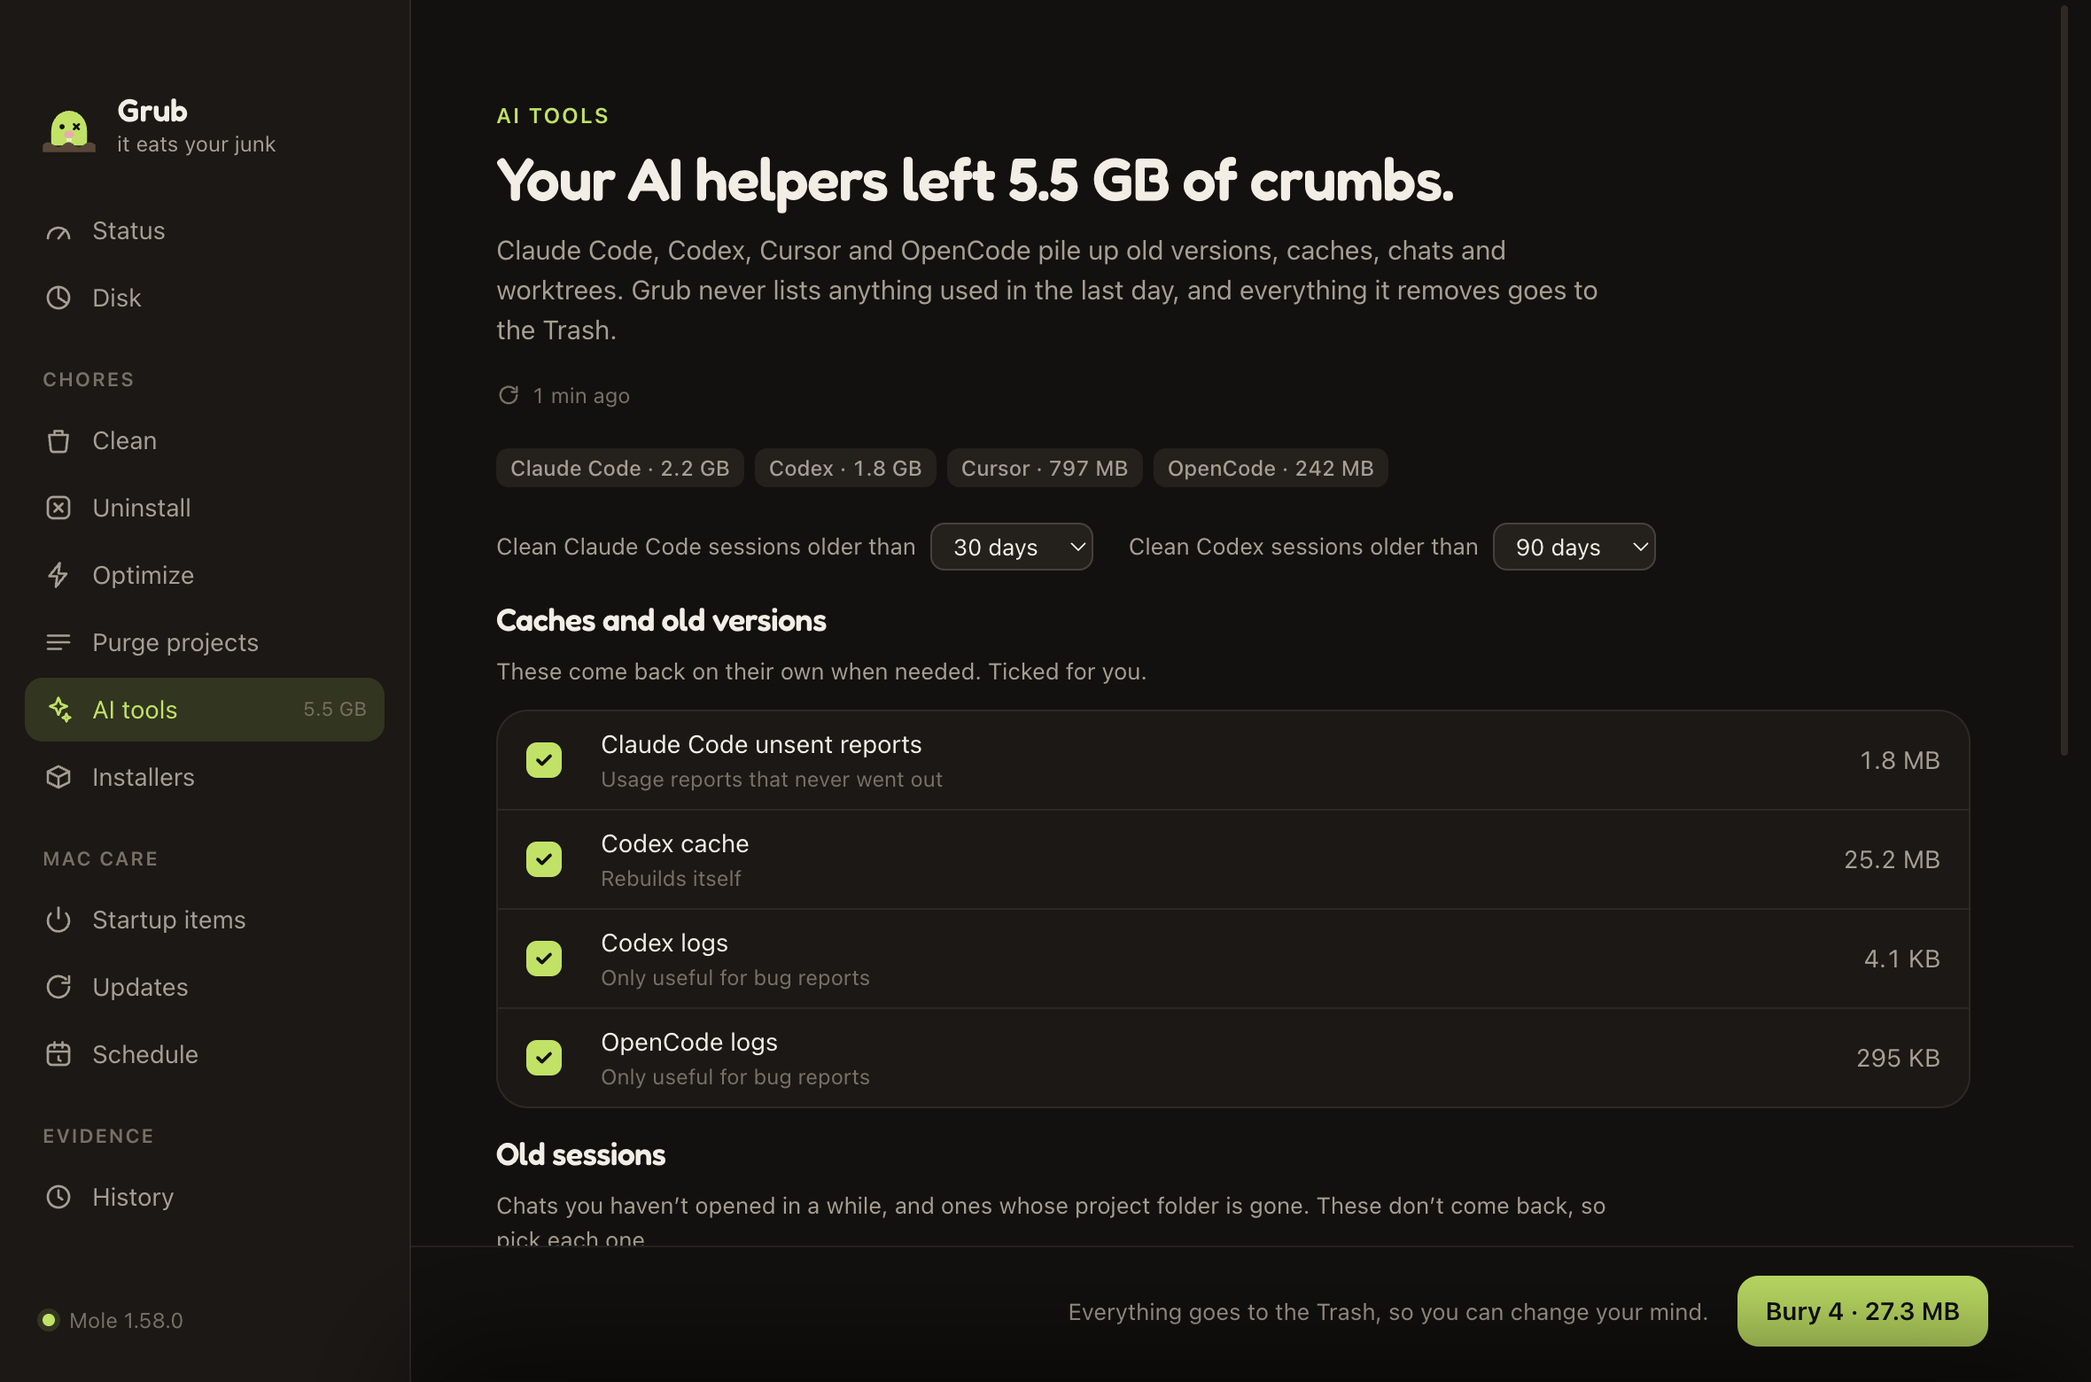
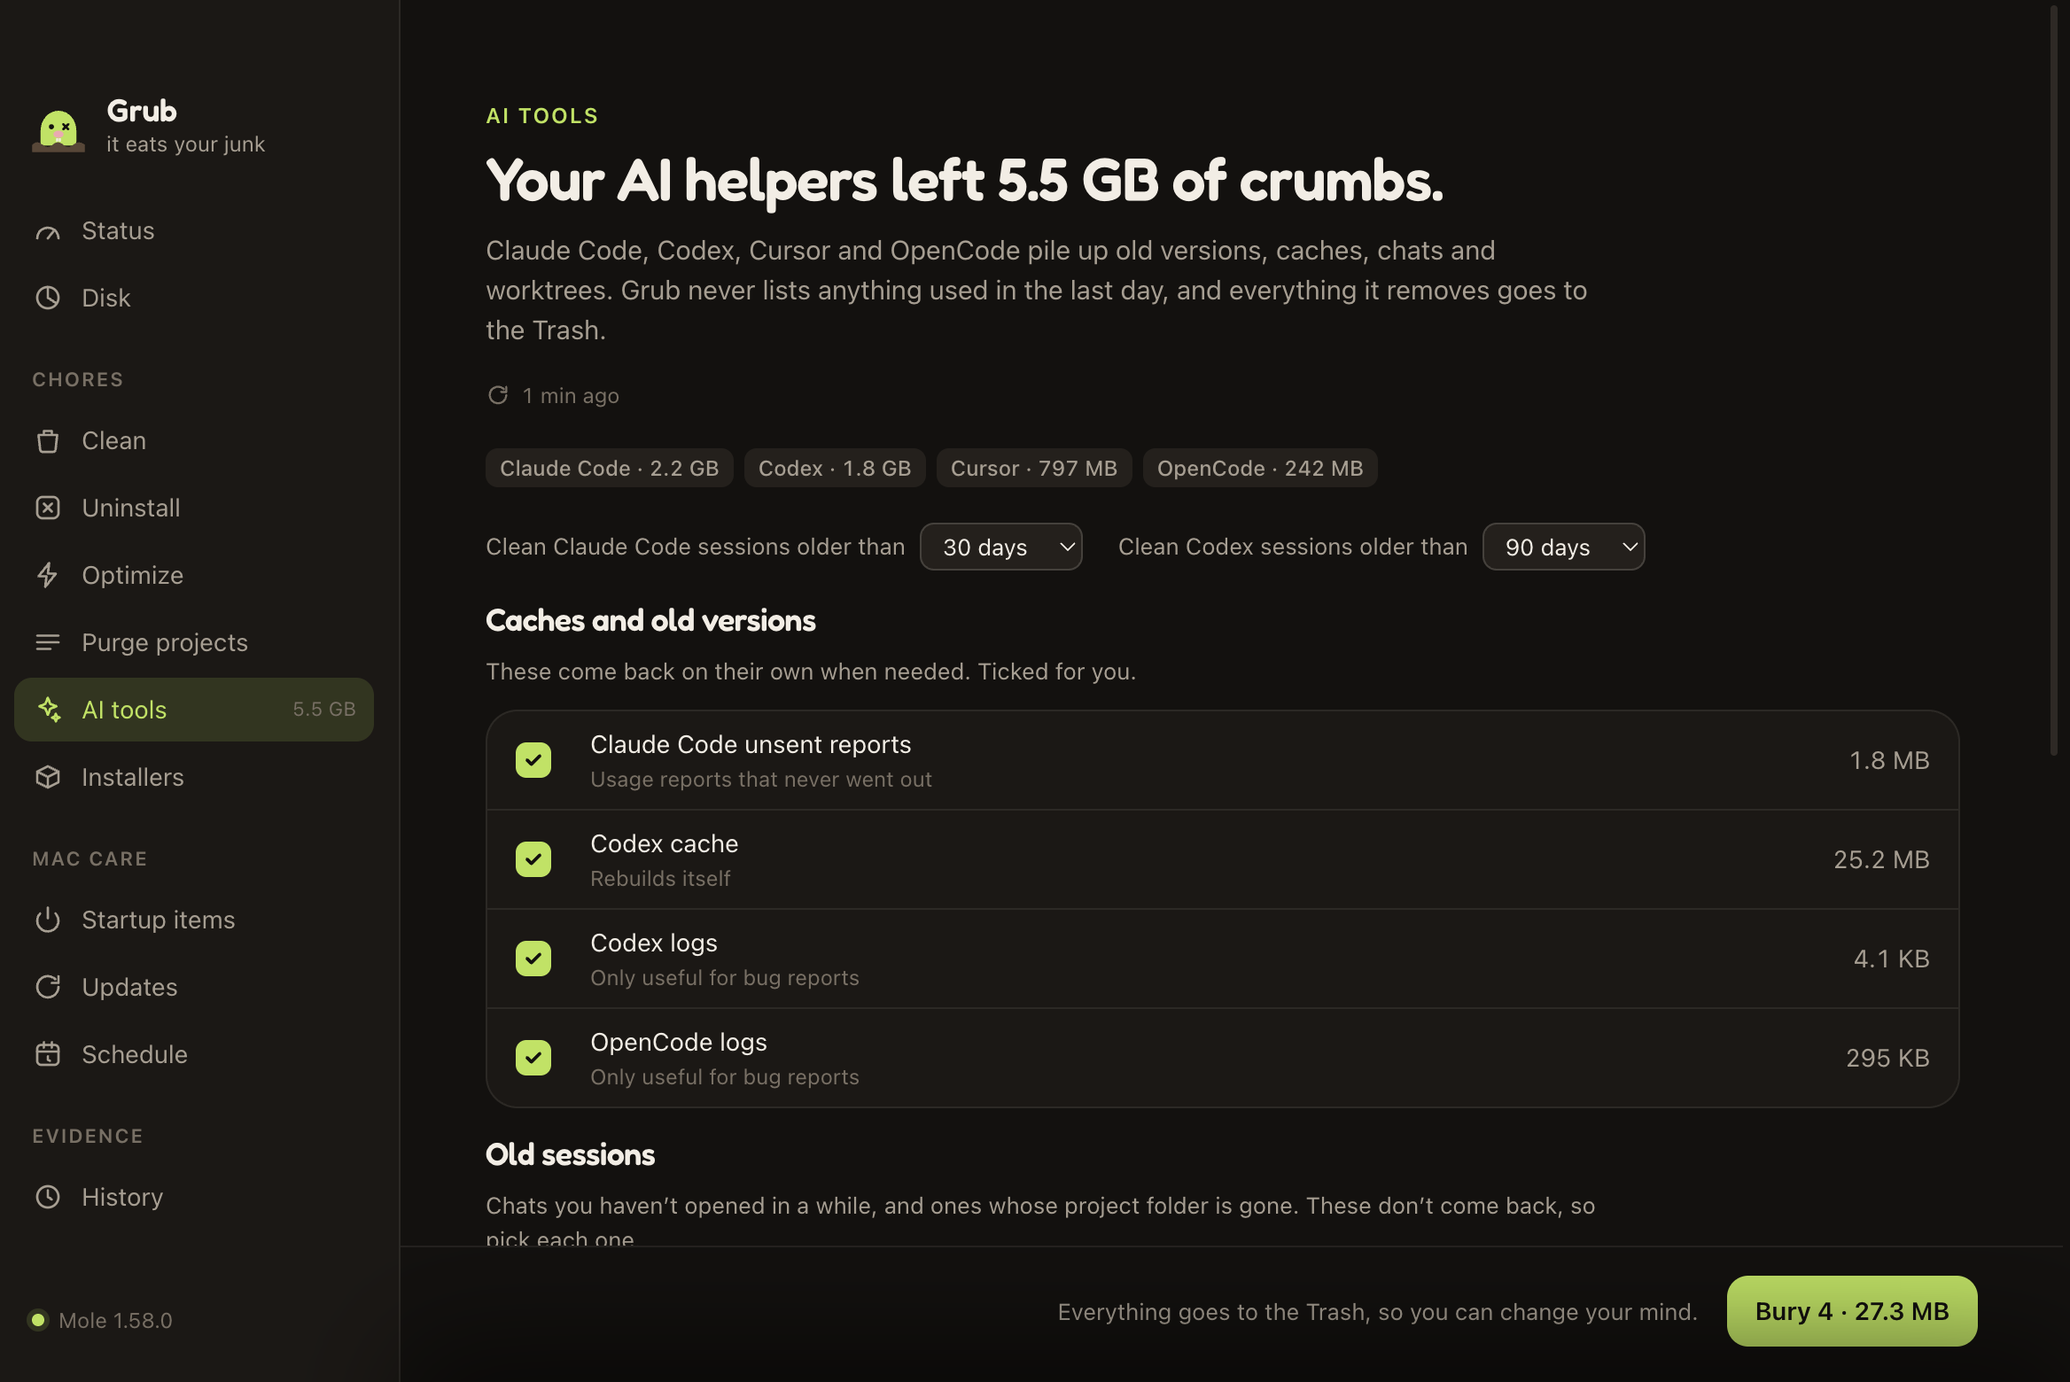
Live disk map on the landing page, uncropped screens without scrollbars
The Disk tile now runs a port of the app's treemap (squarified layout,
soil-to-mold colours, folder and file tiles, crumbs pile) on an example
folder tree you can click into and back out of. The bento is back to
Status wide, Disk tall, AI tools and Schedule below, with every
screenshot shown whole. All screenshots lose the right 24px so the app's
scrollbar no longer shows.

diff --git a/docs/index.html b/docs/index.html
@@ -141,7 +141,7 @@
       border: 1px solid rgba(243, 237, 228, 0.1);
       box-shadow: 0 40px 120px -20px rgba(0, 0, 0, 0.8), 0 0 0 1px rgba(0, 0, 0, 0.6);
     }
-    .window img { width: 100%; aspect-ratio: 2360 / 1560; }
+    .window img { width: 100%; aspect-ratio: 2336 / 1560; }
 
     /* ---------- facts strip ---------- */
     .facts { display: grid; grid-template-columns: repeat(4, auto); justify-content: space-between; gap: 20px; margin-top: 72px; padding: 22px 0; border-top: 1px solid var(--panel-2); border-bottom: 1px solid var(--panel-2); }
@@ -217,21 +217,72 @@
     .tile-text { padding: 24px 24px 18px; }
     .tile h3 { font: 600 22px var(--display); margin: 0 0 4px; }
     .tile p { margin: 0; color: var(--muted); }
-    .tile .shot { flex: 1; min-height: 200px; margin: 0 0 0 24px; border-radius: var(--r-control) 0 0 0; overflow: hidden; border-top: 1px solid var(--line); border-left: 1px solid var(--line); }
-    .tile .shot img { width: 100%; height: 100%; object-fit: cover; object-position: left top; transition: transform 600ms var(--ease-out); }
+    /* Screens are shown whole, at their real aspect ratio, never cropped. */
+    .tile .shot { margin: auto 24px 24px; border-radius: var(--r-control); overflow: hidden; border: 1px solid var(--line); }
+    .tile .shot img { width: 100%; height: auto; aspect-ratio: 2336 / 1560; transition: transform 600ms var(--ease-out); }
     .tile-status { grid-column: 1 / 3; grid-row: 1; }
-    .tile-schedule { grid-column: 3; grid-row: 1; }
     .tile-ai { grid-column: 1; grid-row: 2; }
-    .tile-status .shot { min-height: 340px; }
-    .tile-disk { grid-column: 2 / 4; grid-row: 2; background: linear-gradient(180deg, rgba(184, 227, 77, 0.1), var(--panel) 46%); }
-    .tile-disk .shot { min-height: 300px; }
-    .tile-disk .shot img { object-position: left top; }
+    .tile-schedule { grid-column: 2; grid-row: 2; }
+    .tile-disk { grid-column: 3; grid-row: 1 / 3; background: linear-gradient(180deg, rgba(184, 227, 77, 0.1), var(--panel) 46%); }
     .tile-ai { background: linear-gradient(180deg, rgba(244, 167, 176, 0.08), var(--panel) 50%); }
-    .tile-ai .shot img { object-position: 28% top; }
-    .tile-schedule .shot img { object-position: 30% top; }
     @media (hover: hover) and (pointer: fine) {
       .tile.in:hover { border-color: var(--line); }
       .tile:hover .shot img { transform: scale(1.025); }
+    }
+
+    /* ---------- live disk map: a port of the app's treemap (src/renderer/app.js, styles.css) ---------- */
+    .tm-frame { flex: 1; display: flex; flex-direction: column; margin: 0 24px 24px; min-height: 320px; }
+    .tm-bar { display: flex; align-items: center; justify-content: space-between; gap: 12px; margin-bottom: 10px; }
+    .tm-crumbs { display: flex; flex-wrap: wrap; gap: 4px; min-width: 0; }
+    .tm-crumbs button {
+      appearance: none; border: 0; cursor: pointer; padding: 4px 10px; border-radius: 8px;
+      font: 600 12px var(--mono); color: var(--muted); background: var(--panel-2);
+      transition: color 150ms ease, background-color 150ms ease, transform 160ms var(--ease-out);
+    }
+    .tm-crumbs button:hover { color: var(--text); }
+    .tm-crumbs button:active { transform: scale(0.97); }
+    .tm-crumbs button[aria-current="true"] { color: var(--rot); background: rgba(184, 227, 77, 0.12); }
+    .tm-note { flex: none; color: var(--muted); font-size: 12px; opacity: 0.8; }
+    .tm-map { position: relative; flex: 1; min-height: 280px; margin: -3px; }
+    .tm {
+      position: absolute; display: flex; flex-direction: column; justify-content: space-between;
+      padding: 12px 14px; border-radius: 12px; overflow: hidden; text-align: left; border: 0; font: inherit;
+      color: var(--tm-ink); cursor: default;
+      background:
+        radial-gradient(circle, var(--tm-dot) 1px, transparent 1.4px) 0 0 / 7px 7px,
+        linear-gradient(160deg, var(--tm-a), var(--tm-b));
+      box-shadow: inset 0 0 0 1px rgba(255, 255, 255, 0.06);
+      animation: tm-in 260ms var(--ease-out) both;
+      animation-delay: calc(var(--i, 0) * 16ms);
+      transition: box-shadow 150ms ease, filter 150ms ease, transform 160ms var(--ease-out);
+    }
+    .tm.can-dig { cursor: pointer; }
+    .tm.can-dig:active { transform: scale(0.985); }
+    .tm:focus-visible { outline: 2px solid var(--text); outline-offset: 1px; }
+    @keyframes tm-in { from { opacity: 0; transform: scale(0.98); } }
+    /* soil to mold scale, snout pink for files, plain soil for the crumbs pile */
+    .tm.t-mold { --tm-a: #c4ea63; --tm-b: #93b83a; --tm-ink: #14110f; --tm-dot: rgba(20, 17, 15, 0.06); }
+    .tm.t-moss { --tm-a: #8fae45; --tm-b: #6a8530; --tm-ink: #14110f; --tm-dot: rgba(20, 17, 15, 0.07); }
+    .tm.t-sprout { --tm-a: #5d6e35; --tm-b: #455227; --tm-ink: #eef3dc; --tm-dot: rgba(243, 237, 228, 0.035); }
+    .tm.t-soil { --tm-a: #4a3b2f; --tm-b: #382d24; --tm-ink: #e7dccd; --tm-dot: rgba(243, 237, 228, 0.035); }
+    .tm.t-snout { --tm-a: #8a5a60; --tm-b: #6a444a; --tm-ink: #fbe9eb; --tm-dot: rgba(255, 255, 255, 0.035); }
+    .tm.t-crumbs { --tm-a: #2f2924; --tm-b: #25201c; --tm-ink: var(--muted); --tm-dot: rgba(243, 237, 228, 0.03); }
+    .tm-top { display: flex; align-items: center; gap: 7px; min-width: 0; }
+    .tm-top svg { flex: none; width: 15px; height: 15px; fill: none; stroke: currentColor; stroke-width: 2; stroke-linejoin: round; opacity: 0.7; }
+    .tm-top b { overflow: hidden; font-weight: 600; font-size: 12px; text-overflow: ellipsis; white-space: nowrap; }
+    .tm-bottom { display: flex; align-items: baseline; gap: 8px; }
+    .tm-size { white-space: nowrap; font: 600 var(--size-font, 16px) / 1 var(--display); font-variant-numeric: tabular-nums; letter-spacing: -0.02em; }
+    .tm-share { font-size: 12px; font-weight: 600; opacity: 0.6; }
+    .tm-hint {
+      position: absolute; top: 12px; right: 14px; font-size: 12px; font-weight: 600;
+      opacity: 0; transform: translateX(-4px); transition: opacity 150ms ease, transform 200ms var(--ease-out);
+    }
+    .tm.is-small { padding: 9px 10px; }
+    .tm.is-small .tm-share, .tm.is-small .tm-top svg, .tm.is-small .tm-hint { display: none; }
+    .tm.is-tiny > * { display: none; }
+    @media (hover: hover) and (pointer: fine) {
+      .tm.can-dig:hover { box-shadow: inset 0 0 0 2px rgba(255, 255, 255, 0.35); filter: saturate(1.08); }
+      .tm.can-dig:hover .tm-hint { opacity: 0.8; transform: translateX(0); }
     }
 
     /* ---------- mac care ---------- */
@@ -345,7 +396,6 @@
       .panel h3 { font-size: 22px; }
       .bento { grid-template-columns: 1fr; }
       .tile-status, .tile-disk { grid-column: auto; }
-      .tile-status .shot { min-height: 220px; }
       .care-list { grid-template-columns: 1fr; gap: 28px; }
       .flow { grid-template-columns: 1fr; }
       .card { padding: 24px; }
@@ -361,6 +411,7 @@
       .flow::before { transform: none; transition: none; }
       .flow .ico { transition-delay: 0ms; }
       .tile .shot img { transition: none; }
+      .tm { animation-name: fade; }
       .peek svg, .burrow.in .peek svg, .burrow.in .peek.up svg { transition: none; transform: translate(-50%, 4%); }
       .grub-face * { transition: none !important; }
       @keyframes fade { from { opacity: 0; } to { opacity: 1; } }
@@ -462,7 +513,7 @@
         </div>
         <div class="hero-shot">
           <div class="window">
-            <img src="shots/status.webp" width="2360" height="1560" alt="Grub's Status screen: a health score, disk space, CPU, memory and battery" fetchpriority="high">
+            <img src="shots/status.webp" width="2336" height="1560" alt="Grub's Status screen: a health score, disk space, CPU, memory and battery" fetchpriority="high">
           </div>
         </div>
       </div>
@@ -600,28 +651,34 @@
             <h3>Status</h3>
             <p>A health score with live CPU, memory, swap, disk, battery and network, and a plain verdict on what to do next.</p>
           </div>
-          <div class="shot"><img src="shots/status.webp" width="2360" height="1560" alt="Status screen with health score and live stats" loading="lazy"></div>
+          <div class="shot"><img src="shots/status.webp" width="2336" height="1560" alt="Status screen with health score and live stats" loading="lazy"></div>
         </article>
         <article class="tile tile-disk reveal" style="--i:1">
           <div class="tile-text">
             <h3>Disk map</h3>
-            <p>Every folder sized as a block. Click one to dig deeper until you find what's eating space.</p>
+            <p>Every folder sized as a block. Click one to dig deeper until you find what's eating space. Try it here.</p>
           </div>
-          <div class="shot"><img src="shots/disk-map.webp" width="1700" height="960" alt="Disk map: Documents, Library, Downloads and smaller folders as sized blocks" loading="lazy"></div>
+          <div class="tm-frame">
+            <div class="tm-bar">
+              <div class="tm-crumbs" id="tm-crumbs"></div>
+              <span class="tm-note">Example folders</span>
+            </div>
+            <div class="tm-map" id="tm-map" role="group" aria-label="Interactive disk map with example folders"></div>
+          </div>
         </article>
         <article class="tile tile-ai reveal" style="--i:2">
           <div class="tile-text">
             <h3>AI tools</h3>
             <p>How much each coding assistant left behind, tool by tool.</p>
           </div>
-          <div class="shot"><img src="shots/ai-tools.webp" width="2360" height="1560" alt="AI tools screen with sizes per tool" loading="lazy"></div>
+          <div class="shot"><img src="shots/ai-tools.webp" width="2336" height="1560" alt="AI tools screen with sizes per tool" loading="lazy"></div>
         </article>
         <article class="tile tile-schedule reveal" style="--i:3">
           <div class="tile-text">
             <h3>Schedule</h3>
             <p>A weekly checkup that reports back, or cleans up on its own if you let it.</p>
           </div>
-          <div class="shot"><img src="shots/schedule.webp" width="2360" height="1560" alt="Schedule screen with chores set to off, report or auto" loading="lazy"></div>
+          <div class="shot"><img src="shots/schedule.webp" width="2336" height="1560" alt="Schedule screen with chores set to off, report or auto" loading="lazy"></div>
         </article>
       </div>
     </div>
@@ -794,6 +851,95 @@ cd grub && npm install && npm start</pre>
       finalCta.addEventListener('mouseenter', () => peek.classList.add('up'));
       finalCta.addEventListener('mouseleave', () => peek.classList.remove('up'));
     }
+
+    // Live disk map: the app's squarified treemap and colour scale, running on an example folder tree.
+    (function diskMap() {
+      const G = 1024 ** 3, M = 1024 ** 2;
+      const d = (name, size, kids) => ({ name, size, dir: true, kids });
+      const f = (name, size) => ({ name, size, dir: false });
+      const crumbs = (n, size) => ({ name: `${n} crumbs`, size, crumbs: true });
+      const home = d('~', 0, [
+        d('Documents', 92.8 * G, [d('Projects', 61.0 * G), d('Design', 14.2 * G), d('Archive', 9.9 * G), d('Videos', 5.3 * G), crumbs(41, 2.4 * G)]),
+        d('Library', 57.5 * G, [d('Application Support', 21.4 * G), d('Containers', 14.8 * G), d('Caches', 9.6 * G), d('Developer', 6.2 * G), d('Group Containers', 3.1 * G), d('Mail', 1.1 * G), d('Logs', 0.9 * G), crumbs(23, 0.4 * G)]),
+        d('Downloads', 8.0 * G, [f('Xcode_26.xip', 3.1 * G), f('screen-recording.mov', 1.4 * G), f('Figma.dmg', 0.42 * G), f('Docker.dmg', 0.6 * G), d('old-photos', 1.9 * G), crumbs(64, 0.58 * G)]),
+        d('.ollama', 7.2 * G, [d('models', 7.2 * G)]),
+        d('.cache', 6.7 * G, [d('huggingface', 4.1 * G), d('pip', 1.3 * G), d('uv', 0.8 * G), d('puppeteer', 0.5 * G)]),
+        d('Desktop', 4.1 * G), d('Movies', 3.4 * G), d('Pictures', 2.6 * G), d('Music', 1.2 * G),
+        crumbs(29, 3.7 * G),
+      ]);
+      const ICON_DIR = '<svg viewBox="0 0 24 24"><path d="M3 7a2 2 0 0 1 2-2h4l2 2h8a2 2 0 0 1 2 2v8a2 2 0 0 1-2 2H5a2 2 0 0 1-2-2z"/></svg>';
+      const ICON_FILE = '<svg viewBox="0 0 24 24"><path d="M6 3h8l4 4v14H6z"/><path d="M14 3v4h4"/></svg>';
+      const ICON_CRUMBS = '<svg viewBox="0 0 24 24"><circle cx="7" cy="15" r="2"/><circle cx="13" cy="9" r="2"/><circle cx="17" cy="16" r="2"/></svg>';
+      const map = document.getElementById('tm-map');
+      const bar = document.getElementById('tm-crumbs');
+      let path = [home];
+
+      const bytes = (n) => (n >= G ? `${(n / G).toFixed(1)} GB` : `${Math.round(n / M)} MB`);
+      // Size decides the colour: big hogs are moldy green, small stuff fades back into the soil.
+      const tone = (e, share) => e.crumbs ? 't-crumbs' : !e.dir ? 't-snout' : share >= 0.2 ? 't-mold' : share >= 0.08 ? 't-moss' : share >= 0.03 ? 't-sprout' : 't-soil';
+
+      // Squarified treemap: lay out rows along the short side so tiles stay close to square.
+      function squarify(items, x, y, w, h, out = []) {
+        if (!items.length) return out;
+        const total = items.reduce((n, i) => n + i.value, 0);
+        const short = Math.min(w, h);
+        const worst = (r, sum) => {
+          const side = (sum / total) * (w * h) / short;
+          return Math.max(...r.map((i) => { const len = ((i.value / total) * (w * h)) / side; return Math.max(side / len, len / side); }));
+        };
+        let row = [], rowSum = 0, i = 0;
+        for (; i < items.length; i++) {
+          const next = [...row, items[i]];
+          if (row.length && worst(next, rowSum + items[i].value) > worst(row, rowSum)) break;
+          row = next; rowSum += items[i].value;
+        }
+        const side = ((rowSum / total) * (w * h)) / short;
+        let offset = 0;
+        for (const item of row) {
+          const len = (item.value / rowSum) * short;
+          out.push(w >= h ? { item, x, y: y + offset, w: side, h: len } : { item, x: x + offset, y, w: len, h: side });
+          offset += len;
+        }
+        const rest = items.slice(i);
+        return w >= h ? squarify(rest, x + side, y, w - side, h, out) : squarify(rest, x, y + side, w, h - side, out);
+      }
+
+      function render() {
+        const here = path[path.length - 1];
+        const entries = [...here.kids].sort((a, b) => b.size - a.size);
+        const total = entries.reduce((n, e) => n + e.size, 0);
+        const { width, height } = map.getBoundingClientRect();
+        if (!width || !height) return;
+        const GAP = 3;
+        map.replaceChildren(...squarify(entries.map((e) => ({ value: e.size, e })), 0, 0, width, height).map(({ item: { e }, x, y, w, h }, i) => {
+          const share = e.size / total;
+          const tw = w - GAP * 2, th = h - GAP * 2;
+          const tiny = tw < 70 || th < 46;
+          const small = !tiny && (tw < 140 || th < 90);
+          const canDig = !!e.kids;
+          const b = document.createElement(canDig ? 'button' : 'div');
+          b.className = `tm ${tone(e, share)}${tiny ? ' is-tiny' : ''}${small ? ' is-small' : ''}${canDig ? ' can-dig' : ''}`;
+          b.style.cssText = `left:${x + GAP}px;top:${y + GAP}px;width:${tw}px;height:${th}px;--i:${Math.min(i, 24)};--size-font:${Math.round(Math.max(14, Math.min(30, Math.min(tw, th) / 5)))}px`;
+          b.title = `${e.name}, ${bytes(e.size)}`;
+          if (canDig) { b.type = 'button'; b.setAttribute('aria-label', `${e.name}, ${bytes(e.size)}. Dig in`); b.onclick = () => { path.push(e); render(); }; }
+          b.innerHTML = `<span class="tm-top">${e.crumbs ? ICON_CRUMBS : e.dir ? ICON_DIR : ICON_FILE}<b></b></span>` +
+            `<span class="tm-bottom"><span class="tm-size">${bytes(e.size)}</span><span class="tm-share">${share >= 0.01 ? Math.round(share * 100) + '%' : '<1%'}</span></span>` +
+            (canDig ? '<span class="tm-hint">Dig in →</span>' : '');
+          b.querySelector('b').textContent = e.name;
+          return b;
+        }));
+        bar.replaceChildren(...path.map((node, i) => {
+          const c = document.createElement('button');
+          c.type = 'button';
+          c.textContent = node.name;
+          if (i === path.length - 1) c.setAttribute('aria-current', 'true');
+          c.onclick = () => { if (i < path.length - 1) { path = path.slice(0, i + 1); render(); } };
+          return c;
+        }));
+      }
+      home.size = home.kids.reduce((n, e) => n + e.size, 0);
+      new ResizeObserver(render).observe(map);
+    })();
 
     // Chore explorer: a tab list with arrow-key support. The panels are real HTML, so it reads fine without JS.
     const chores = [...document.querySelectorAll('.chore')];
